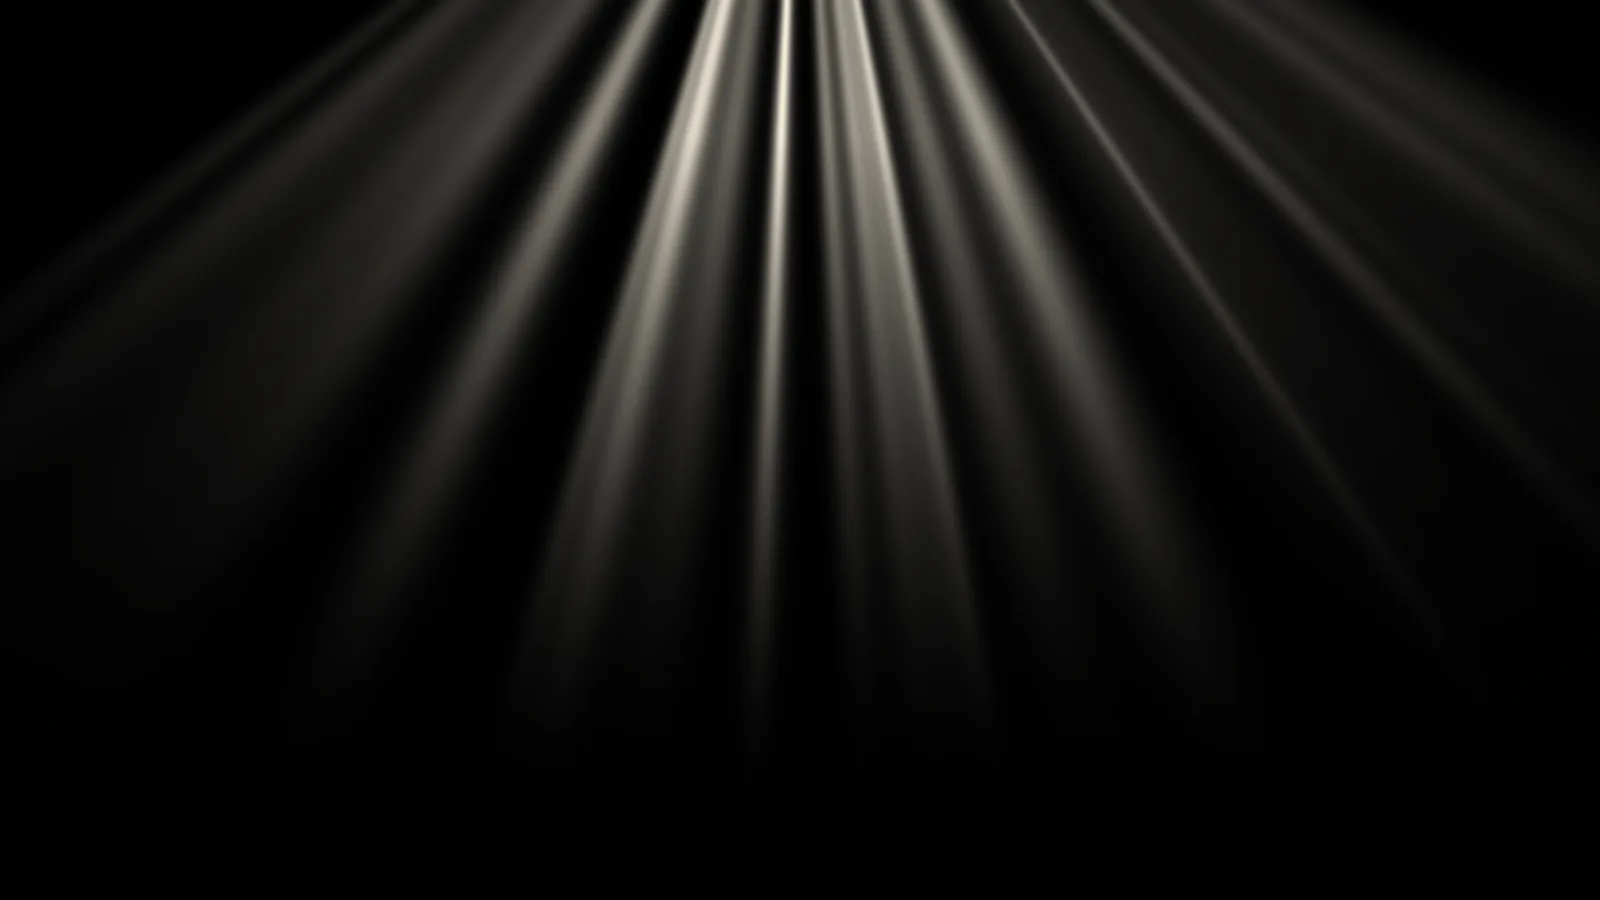
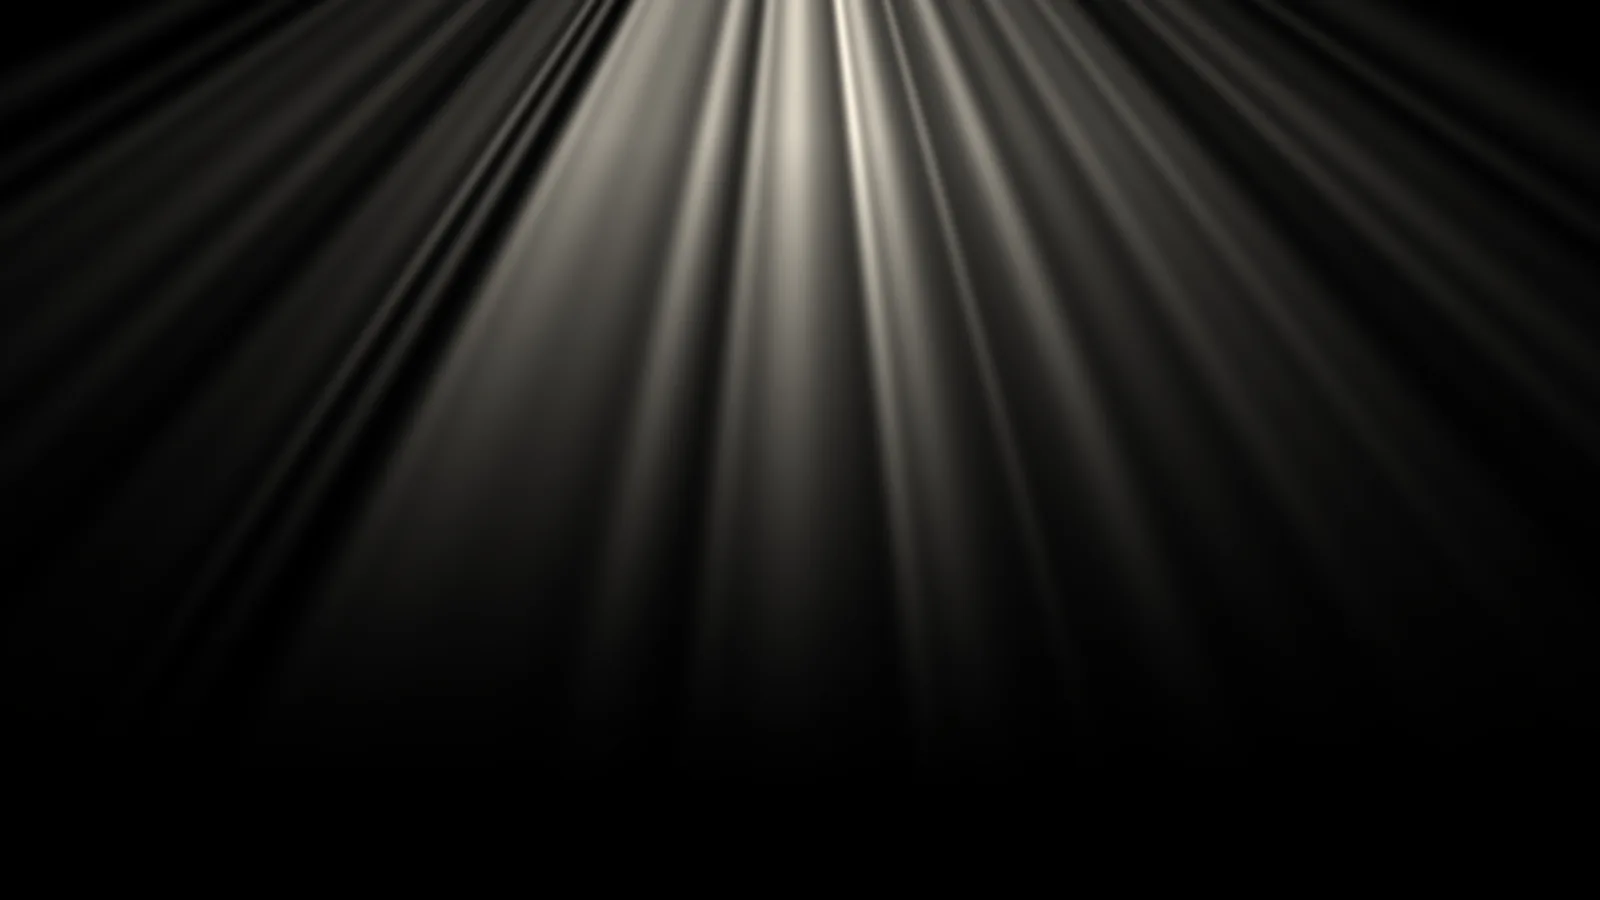
Title rays: no bright flash after intro, visible shimmer (interleaved beams, 7s crossfade)
Claude-Session: https://claude.ai/code/session_013sjMXzgNW8RNoyAHnNNuvx

diff --git a/index.html b/index.html
@@ -1317,17 +1317,18 @@ html body .tpick .tcell:disabled{box-shadow:none!important}
 .title .tsun{position:absolute;left:calc(3vw - 22vmax);top:calc(37% - 22vmax);width:44vmax;height:44vmax;border-radius:50%;pointer-events:none;mix-blend-mode:screen;background:radial-gradient(circle,rgba(255,205,130,.75) 0,rgba(255,160,80,.35) 20%,rgba(255,120,60,.12) 46%,transparent 70%);animation:tsunB 7s ease-in-out infinite alternate}
 @keyframes tsunB{from{opacity:.75;transform:scale(.96)}to{opacity:1;transform:scale(1.05)}}
 .title video{pointer-events:none;mix-blend-mode:screen;background:transparent;object-fit:cover}
-.title .tgod{position:absolute;inset:0;width:auto;height:auto;padding:0;pointer-events:none;mix-blend-mode:screen;background:center top/100% 100% no-repeat;display:block}
-.title .trA{background-image:url(assets/fx/rays_a.webp);animation:trayA 11s ease-in-out infinite alternate}
-.title .trB{background-image:url(assets/fx/rays_b.webp);animation:trayB 11s ease-in-out infinite alternate}
-@keyframes trayA{from{opacity:.42}to{opacity:.08}}
-@keyframes trayB{from{opacity:.06}to{opacity:.38}}
+.title .tgods{position:absolute;inset:0;pointer-events:none;mix-blend-mode:screen}
+.title .tgod{position:absolute;inset:0;pointer-events:none;background:center top/100% 100% no-repeat;transform-origin:50% 0;will-change:opacity,transform}
+.title .trA{background-image:url(assets/fx/rays_a.webp);animation:trayA 7s ease-in-out infinite alternate}
+.title .trB{background-image:url(assets/fx/rays_b.webp);animation:trayB 7s ease-in-out infinite alternate}
+@keyframes trayA{from{opacity:.5;transform:scaleY(1.04)}to{opacity:.04;transform:scaleY(.94)}}
+@keyframes trayB{from{opacity:.04;transform:scaleY(.94)}to{opacity:.46;transform:scaleY(1.04)}}
 .title .tmotes{position:absolute;inset:0;width:100%;height:100%;pointer-events:none}
 .title .ttwk{position:absolute;inset:0;width:100%;height:100%;opacity:.38;-webkit-mask-image:linear-gradient(180deg,#000 0,#000 26%,rgba(0,0,0,.35) 40%,transparent 50%);mask-image:linear-gradient(180deg,#000 0,#000 26%,rgba(0,0,0,.35) 40%,transparent 50%)}
 .title .tshine{position:absolute;pointer-events:none;mix-blend-mode:screen;-webkit-mask-size:100% 100%;mask-size:100% 100%;-webkit-mask-repeat:no-repeat;mask-repeat:no-repeat;
   background:linear-gradient(105deg,transparent 42%,rgba(255,244,214,.75) 50%,transparent 58%) no-repeat;background-size:300% 100%;background-position:130% 0;animation:tshine 8s ease-in-out 5s infinite}
 @keyframes tshine{0%{background-position:130% 0}18%,100%{background-position:-30% 0}}
-.title.intro .tsun{animation:tfxIn 3s ease 1.5s both}.title.intro .tgod{animation:tfxIn 3s ease 1.2s both}.title.intro .ttwk{animation:tfxIn 3s ease 2.6s both}.title.intro .tmotes{animation:tfxIn 3s ease 2.2s both}
+.title.intro .tsun{animation:tfxIn 3s ease 1.5s both}.title.intro .tgods{animation:tfxIn 3s ease 1.2s both}.title.intro .ttwk{animation:tfxIn 3s ease 2.6s both}.title.intro .tmotes{animation:tfxIn 3s ease 2.2s both}
 @keyframes tfxIn{from{opacity:0}}
 @media (prefers-reduced-motion:reduce){.title .tsun,.title .tshine,.title .tgod{animation:none}.title video{display:none}}
 
@@ -1476,7 +1477,7 @@ html.phone body .dlg-snd .sndrow{grid-template-columns:auto 150px 60px;gap:12px}
 <div id="tip" hidden></div><div id="pop" hidden></div>
 <div id="leftcol"></div>
 <div id="rotate" hidden><div class="rot-ic"></div><b>가로로 돌려 주세요</b><span>HexIsle은 휴대폰에서 가로 화면으로 플레이해요.</span></div>
-<div id="splash"><img id="spLogo" alt="HEXISLE"><p class="spnote">이 게임은 수익 창출을 하지 않으며,<br>개인 목적으로 제작되었습니다.</p><p class="sptap">화면을 탭 하여 시작</p></div><div id="title" class="title" hidden><div class="tbg"></div><div class="tsun"></div><div class="tdim"></div><div class="tgod trA"></div><div class="tgod trB"></div><video class="ttwk" muted playsinline loop autoplay preload="auto" disablepictureinpicture aria-hidden="true" src="assets/fx/twinkle.mp4"></video><canvas class="tmotes" id="tMotes"></canvas><div class="tnoise"></div><img class="tlogo" id="tLogo" alt="HEXISLE 육각섬 개척기"><div class="tshine" id="tShine"></div><div class="tbot"><p class="ttap" id="tTap">화면을 탭 하여 게임 시작</p><div class="tmenu" id="tMenu" hidden><button class="tm tm-or" id="tSingle">싱글 플레이</button><button class="tm tm-gr" id="tMulti">멀티 플레이</button><button class="tm tm-gy" id="tTut">튜토리얼</button></div></div></div>
+<div id="splash"><img id="spLogo" alt="HEXISLE"><p class="spnote">이 게임은 수익 창출을 하지 않으며,<br>개인 목적으로 제작되었습니다.</p><p class="sptap">화면을 탭 하여 시작</p></div><div id="title" class="title" hidden><div class="tbg"></div><div class="tsun"></div><div class="tdim"></div><div class="tgods"><div class="tgod trA"></div><div class="tgod trB"></div></div><video class="ttwk" muted playsinline loop autoplay preload="auto" disablepictureinpicture aria-hidden="true" src="assets/fx/twinkle.mp4"></video><canvas class="tmotes" id="tMotes"></canvas><div class="tnoise"></div><img class="tlogo" id="tLogo" alt="HEXISLE 육각섬 개척기"><div class="tshine" id="tShine"></div><div class="tbot"><p class="ttap" id="tTap">화면을 탭 하여 게임 시작</p><div class="tmenu" id="tMenu" hidden><button class="tm tm-or" id="tSingle">싱글 플레이</button><button class="tm tm-gr" id="tMulti">멀티 플레이</button><button class="tm tm-gy" id="tTut">튜토리얼</button></div></div></div>
 <div id="tut" hidden><div class="tblock" id="tBlock"></div><div class="tring" id="tRing" hidden></div><div class="tx" id="tX" hidden>✕</div><div class="tbub" id="tBub"></div><div class="tgest" id="tGest" hidden><i class="f1"></i><i class="f2"></i></div></div>
 <div id="dialog" class="overlay dlgov" hidden><div class="sheet sheet-dialog" id="dsheet"></div></div>
 <div id="modal" class="overlay" hidden><div class="sheet" id="sheet"></div><i class="mcrest" id="mcrest" aria-hidden="true"></i></div>
